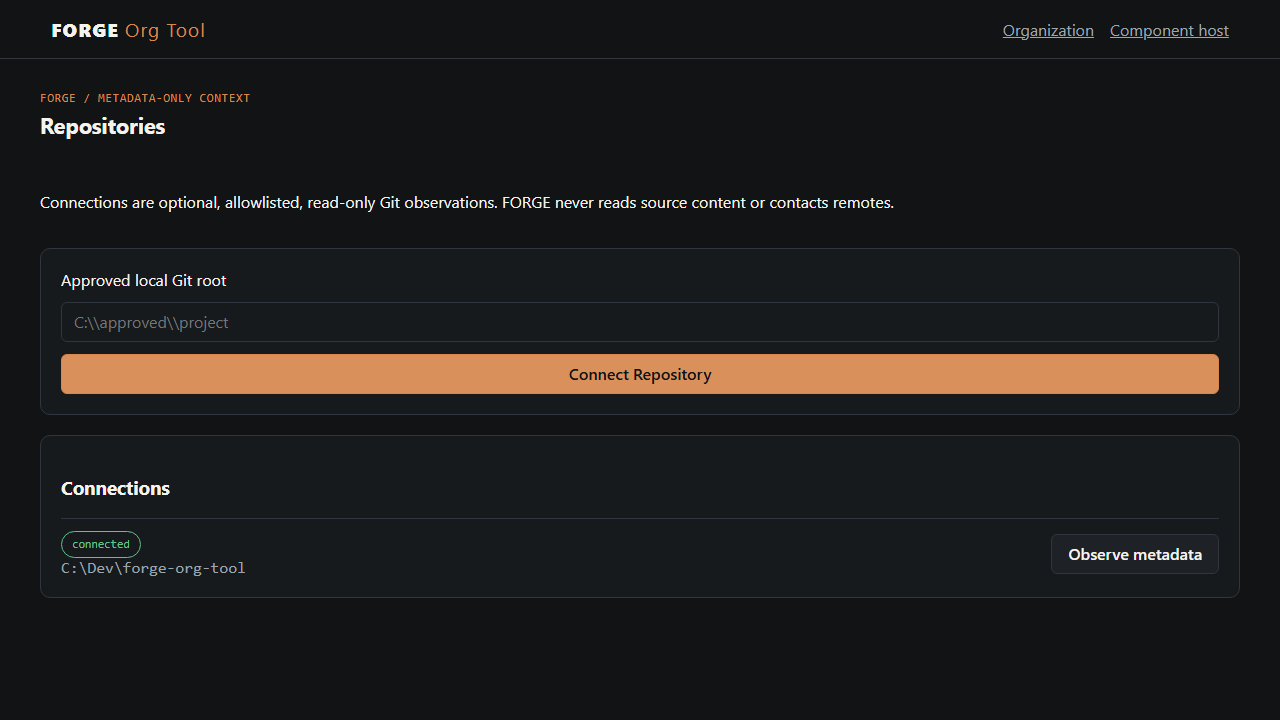
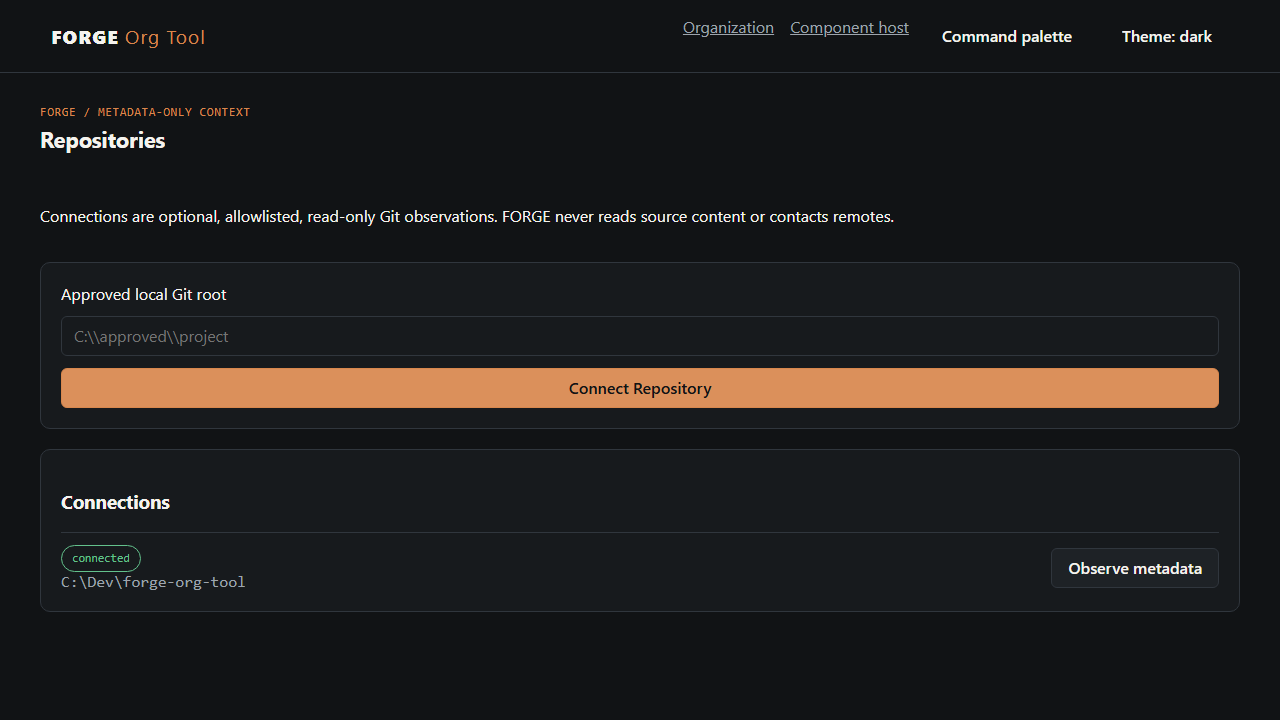
feat: add application shell command palette

diff --git a/apps/web/src/app/App.tsx b/apps/web/src/app/App.tsx
@@ -1,4 +1,6 @@
-import { Link, Route, Routes } from 'react-router-dom';
+import { useEffect, useState } from 'react';
+import { Link, Route, Routes, useNavigate } from 'react-router-dom';
+import { Button } from '@forge-org/ui';
 import { OrganizationPage } from '../features/organization';
 import { FeatureDetailPage, PlanningPage } from '../features/planning';
 import { ReadinessPage } from '../features/readiness';
@@ -9,9 +11,21 @@ import { TransferPage } from '../features/transfer';
 import { ComponentGallery } from './component-gallery/ComponentGallery';
 import styles from './App.module.css';
 export function App() {
-  return <div className={styles.app} data-theme="dark">
+  const navigate = useNavigate();
+  const [light, setLight] = useState(false);
+  const [paletteOpen, setPaletteOpen] = useState(false);
+  useEffect(() => {
+    function onKeyDown(event: KeyboardEvent) {
+      if ((event.ctrlKey || event.metaKey) && event.key.toLowerCase() === 'k') { event.preventDefault(); setPaletteOpen(true); }
+      if (event.key === 'Escape') setPaletteOpen(false);
+    }
+    window.addEventListener('keydown', onKeyDown);
+    return () => window.removeEventListener('keydown', onKeyDown);
+  }, []);
+  function go(path: string) { setPaletteOpen(false); navigate(path); }
+  return <div className={styles.app} data-testid="application-shell" data-theme={light ? 'light' : 'dark'}>
     <header className={styles.topbar}><Link to="/" className={styles.brand}>FORGE <span>Org Tool</span></Link>
-      <nav aria-label="Primary"><Link to="/">Organization</Link>{import.meta.env.DEV && <Link to="/__components">Component host</Link>}</nav>
+      <nav aria-label="Primary"><Link to="/">Organization</Link>{import.meta.env.DEV && <Link to="/__components">Component host</Link>}<Button variant="ghost" onClick={() => setPaletteOpen(true)} aria-label="Open command palette">Command palette</Button><Button variant="ghost" onClick={() => setLight((value) => !value)} aria-label={`Switch to ${light ? 'dark' : 'light'} theme`}>Theme: {light ? 'light' : 'dark'}</Button></nav>
     </header>
     <main id="main" className={styles.main}>
       <Routes>
@@ -27,5 +41,6 @@ export function App() {
         <Route path="*" element={<p>Page not found.</p>} />
       </Routes>
     </main>
+    {paletteOpen && <div className={styles.paletteBackdrop} role="presentation" onMouseDown={() => setPaletteOpen(false)}><div className={styles.palette} role="dialog" aria-modal="true" aria-label="Command palette" onMouseDown={(event) => event.stopPropagation()}><h2>Command palette</h2><Button variant="ghost" onClick={() => go('/')} aria-label="Go to Organization">Organization</Button>{import.meta.env.DEV && <Button variant="ghost" onClick={() => go('/__components')}>Component host</Button>}<p>Press Escape to close.</p></div></div>}
   </div>;
 }

diff --git a/apps/web/e2e/m1-browser.spec.ts b/apps/web/e2e/m1-browser.spec.ts
@@ -30,7 +30,7 @@ test('mobile gallery switches from dark to light with no browser errors', async 
   await primary.hover();
   const hoverBackground = await primary.evaluate((element) => getComputedStyle(element).backgroundColor);
   expect(hoverBackground).not.toBe(defaultBackground);
-  await page.getByRole('button', { name: /switch to light/i }).click();
+  await page.getByRole('button', { name: 'Switch to light', exact: true }).click();
   await expect(gallery).toHaveAttribute('data-theme', 'light');
   await expect(page.getByRole('button', { name: /increment 0/i })).toBeVisible();
   expect(await page.evaluate(() => document.documentElement.scrollWidth <= document.documentElement.clientWidth)).toBe(true);
@@ -151,4 +151,16 @@ test('planning feature detail manages tasks and acceptance criteria', async ({ p
   await expect(page.getByRole('combobox', { name: `Status for Task ${suffix}` })).toHaveValue('in_progress');
   const screenshotName = test.info().project.name === 'chromium-mobile' ? 'mobile-feature-detail.png' : 'desktop-feature-detail.png';
   await page.screenshot({ path: resolve(evidenceDir, screenshotName), fullPage: true });
+});
+
+test('application shell exposes command palette and theme control', async ({ page }) => {
+  await page.goto('/');
+  await page.keyboard.press('Control+K');
+  await expect(page.getByRole('dialog', { name: 'Command palette' })).toBeVisible();
+  await expect(page.getByRole('button', { name: 'Go to Organization' })).toBeVisible();
+  await page.getByRole('button', { name: 'Go to Organization' }).click();
+  await page.getByRole('button', { name: /switch to light theme/i }).click();
+  await expect(page.getByTestId('application-shell')).toHaveAttribute('data-theme', 'light');
+  await page.keyboard.press('Escape');
+  await expect(page.getByRole('dialog', { name: 'Command palette' })).toBeHidden();
 });

diff --git a/apps/web/src/app/App.module.css b/apps/web/src/app/App.module.css
@@ -5,3 +5,7 @@
 .topbar nav { display: flex; gap: var(--forge-space-4); flex-wrap: wrap; }
 .topbar nav a { color: var(--forge-text-muted); }
 .main { width: min(1200px, calc(100% - 32px)); margin: var(--forge-space-8) auto; }
+.paletteBackdrop { position: fixed; inset: 0; display: grid; place-items: start center; padding-top: 12vh; background: rgb(0 0 0 / .55); z-index: 10; }
+.palette { display: grid; gap: var(--forge-space-2); width: min(440px, calc(100% - 32px)); padding: var(--forge-space-5); background: var(--forge-surface-raised); color: var(--forge-text); border: 1px solid var(--forge-border); border-radius: var(--forge-radius-lg); box-shadow: 0 18px 50px rgb(0 0 0 / .3); }
+.palette h2 { margin: 0 0 var(--forge-space-2); }
+.palette p { margin: var(--forge-space-2) 0 0; color: var(--forge-text-muted); font-size: .85rem; }

diff --git a/apps/web/src/app/App.test.tsx b/apps/web/src/app/App.test.tsx
@@ -44,7 +44,7 @@ describe('M1 application shell', () => {
     fireEvent.click(screen.getByRole('button', { name: /increment 0/i }));
     expect(screen.getByRole('button', { name: /increment 1/i })).toBeInTheDocument();
 
-    fireEvent.click(screen.getByRole('button', { name: /switch to light/i }));
+    fireEvent.click(screen.getByRole('button', { name: /^Switch to light$/ }));
     expect(gallery).toHaveAttribute('data-theme', 'light');
     expect(screen.getByRole('button', { name: /switch to dark/i })).toBeInTheDocument();
   });

diff --git a/docs/evidence/m1/verification.md b/docs/evidence/m1/verification.md
@@ -12,7 +12,7 @@ foundation audit record.
 - Python/uv: Python 3.12.10, uv 0.12.7.
 - `npm run test`: architecture boundaries passed, token check passed, typecheck passed, architecture tests 5/5, Vitest 9/9 across 3 files.
 - `npm run build`: Vite production build passed; the development-only `/__components` route was absent from `apps/web/dist`.
-- `npm run test:e2e`: isolated Chromium desktop/mobile smoke passed 16/16, including planning feature detail, readiness/repository context, delivery, workbench/handoff, and transfer truth-state navigation; Component Host dark/light and representative feature screenshots are retained beside this file: `desktop-component-host-dark.png`, `desktop-component-host.png`, `mobile-component-host-dark.png`, `mobile-gallery-light.png`, `desktop-planning.png`, `mobile-readiness.png`, `desktop-delivery.png`, `mobile-delivery.png`, `desktop-workbench.png`, `mobile-workbench.png`, `desktop-transfer.png`, `mobile-transfer.png`, `desktop-context.png`, `mobile-context.png`, `desktop-feature-detail.png`, and `mobile-feature-detail.png`.
+- `npm run test:e2e`: isolated Chromium desktop/mobile smoke passed 18/18, including shell command-palette/theme behavior, planning feature detail, readiness/repository context, delivery, workbench/handoff, and transfer truth-state navigation; Component Host dark/light and representative feature screenshots are retained beside this file: `desktop-component-host-dark.png`, `desktop-component-host.png`, `mobile-component-host-dark.png`, `mobile-gallery-light.png`, `desktop-planning.png`, `mobile-readiness.png`, `desktop-delivery.png`, `mobile-delivery.png`, `desktop-workbench.png`, `mobile-workbench.png`, `desktop-transfer.png`, `mobile-transfer.png`, `desktop-context.png`, `mobile-context.png`, `desktop-feature-detail.png`, and `mobile-feature-detail.png`.
 - API: Ruff passed, strict mypy passed, pytest passed 16/16, OpenAPI check passed.
 - Live API: `/api/v1/health` returned HTTP 200 with `scope=bootstrap-only`; fabricated `/api/v1/workspaces` returned HTTP 404.
 - Public-file audit: no credential patterns, machine-specific absolute paths, databases, keys, logs, backups, or attachments were staged.
@@ -35,7 +35,7 @@ The final public repository was cloned into an isolated temporary directory. `np
 
 - API scaffold tests were already meaningful and passed before implementation changes; no artificial RED was manufactured.
 - Focused Card contract tests first failed on the pre-existing `<section>` root; the typed neutral `div`/semantic option implementation produced 3/3 GREEN.
-- Isolated Chromium smoke produced 16/16 GREEN and retained dark/light desktop/mobile evidence plus planning detail, readiness/repository, delivery, workbench, and transfer truth-state screenshots; hover behavior was checked in the browser.
+- Isolated Chromium smoke produced 18/18 GREEN and retained dark/light desktop/mobile evidence plus shell, planning detail, readiness/repository, delivery, workbench, and transfer truth-state coverage; hover behavior was checked in the browser.
 - Clean-clone verification first exposed Windows line-ending sensitivity in token checks; `.gitattributes` fixed the repository-boundary defect and the fresh clone passed.
 
 ## Verdict

diff --git a/docs/evidence/reconstruction/verification.md b/docs/evidence/reconstruction/verification.md
@@ -24,7 +24,7 @@ and `dc62a00` (refreshed screenshots).
   unavailable because `cargo`/`rustc` are not installed.
 - OpenAPI export check: passed.
 - Production build: passed; `/__components` is absent from `apps/web/dist`.
-- Isolated Chromium: 16/16 passed across desktop/mobile. Playwright starts its
+- Isolated Chromium: 18/18 passed across desktop/mobile. Playwright starts its
   own Vite and API processes with `reuseExistingServer: false`, one serialized
   worker, and a unique temporary API database; occupied ports and stale local
   data cannot silently attach to or contaminate the run.
@@ -38,6 +38,7 @@ and `dc62a00` (refreshed screenshots).
 - Project transfer: [desktop](../m1/desktop-transfer.png), [mobile](../m1/mobile-transfer.png); export and reviewed fingerprint remain planning-only.
 - Readiness/repository context: [desktop](../m1/desktop-context.png), [mobile](../m1/mobile-context.png); decisions, invariants, criteria, and metadata-only observation were exercised without source-content reads.
 - Planning feature detail: [desktop](../m1/desktop-feature-detail.png), [mobile](../m1/mobile-feature-detail.png); task creation, acceptance criteria, and a manual task transition were exercised.
+- Application shell: command palette keyboard invocation, escape dismissal, and light-theme control were exercised in both viewport projects.
 - Component Host dark/light: [desktop dark](../m1/desktop-component-host-dark.png),
   [desktop light](../m1/desktop-component-host.png), [mobile dark](../m1/mobile-component-host-dark.png),
   and [mobile light](../m1/mobile-gallery-light.png).

diff --git a/docs/specs/ORG-009-web-surfaces/acceptance.md b/docs/specs/ORG-009-web-surfaces/acceptance.md
@@ -3,6 +3,7 @@
 - [x] Provide feature-owned routes for organization, planning, readiness,
   repositories, workbench, and delivery.
 - [x] Preserve manual/reported/blocked truth-state language in the UI.
+- [x] Provide keyboard-accessible command palette and shell theme control.
 - [x] Use public shared UI and API-client boundaries.
 - [x] Capture desktop/mobile Chromium evidence for the shell and planning /
   readiness/repository, workbench, delivery, and transfer flows.
